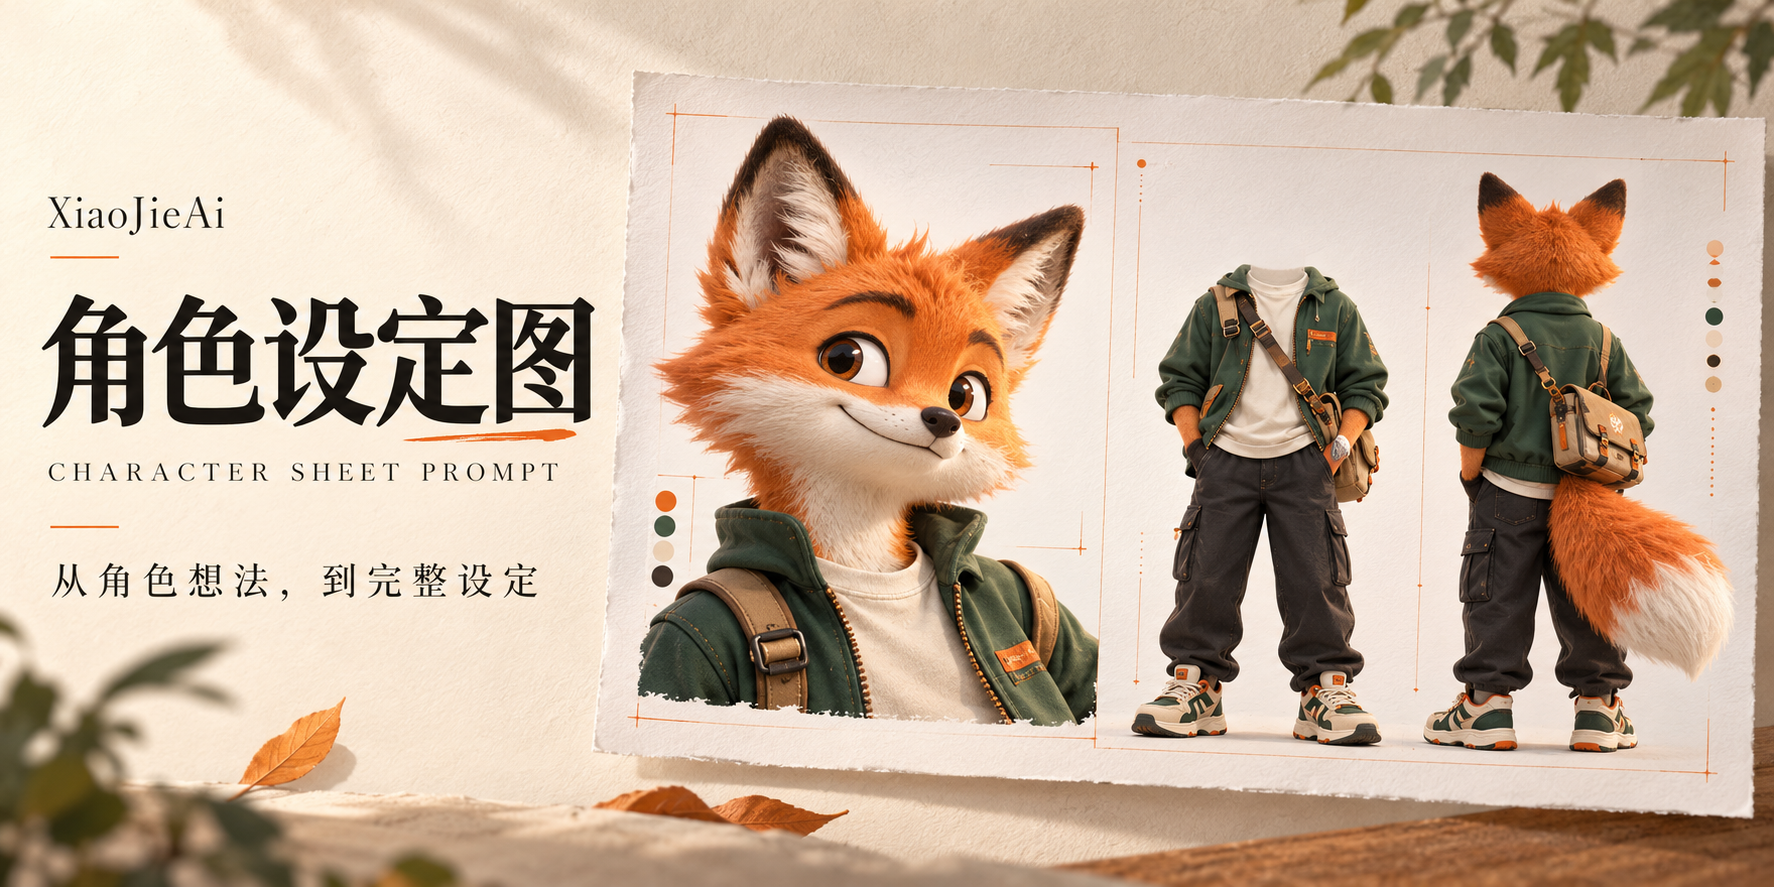
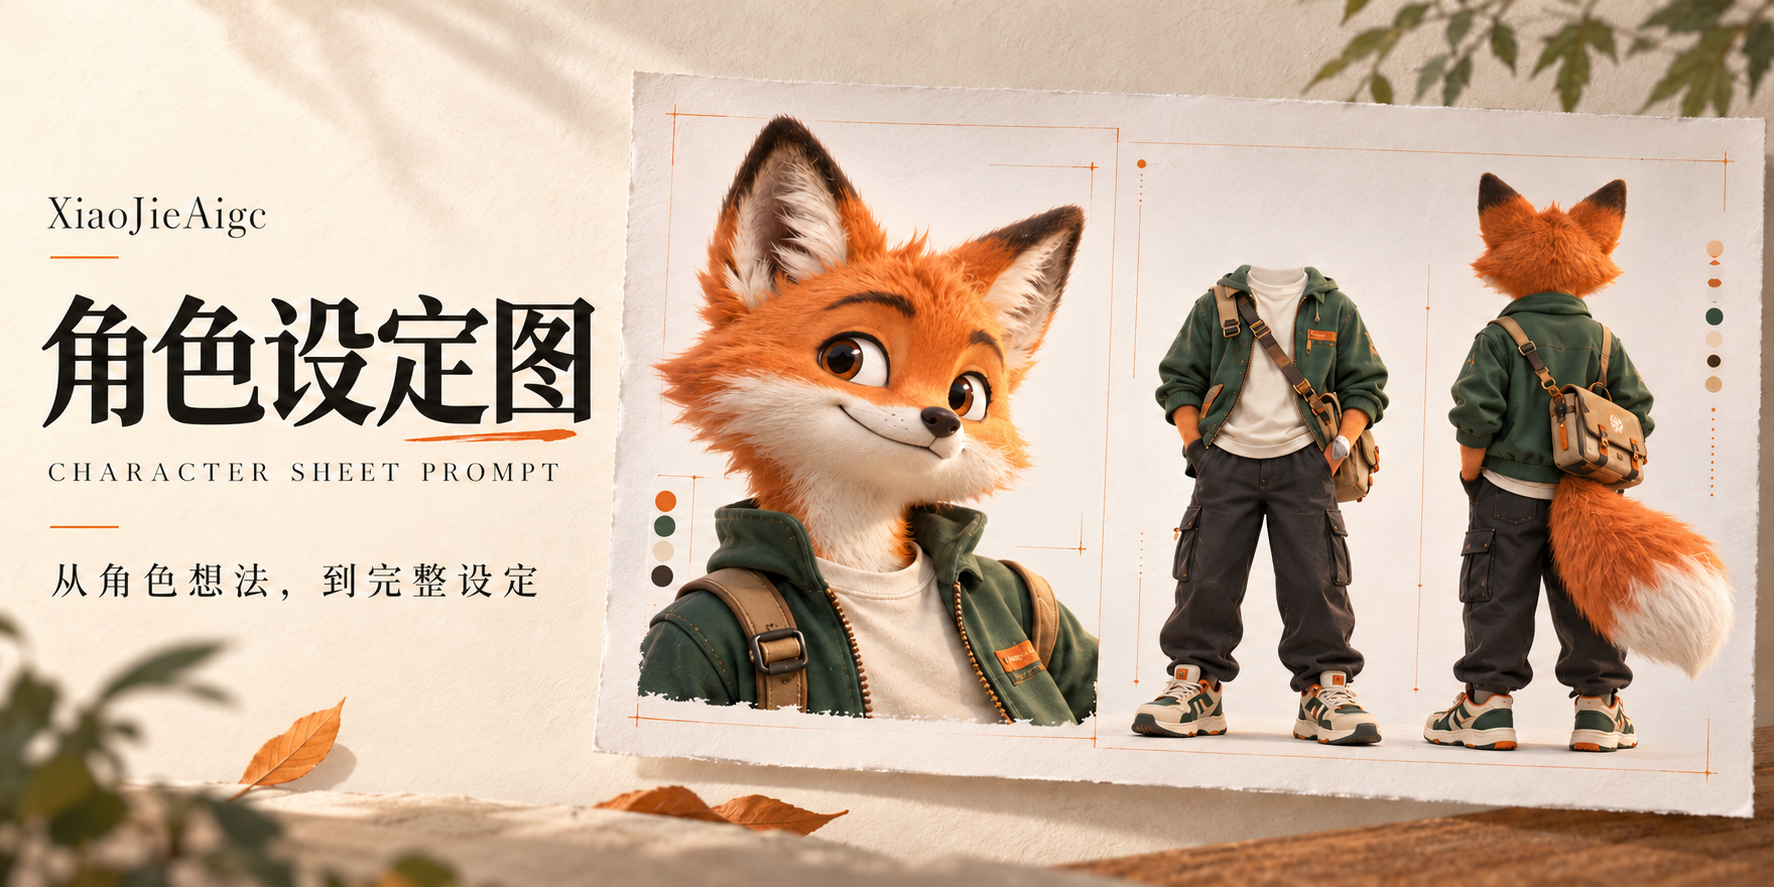
Brand skill and usage examples as XiaoJieAigc

diff --git a/README.md b/README.md
@@ -1,8 +1,8 @@
 <p align="center">
-  <img src="./cover.png" alt="XiaoJieAi 角色设定图：狐狸角色特写、无头服装正视图与完整背视图" width="100%">
+  <img src="./cover.png" alt="XiaoJieAigc 角色设定图：狐狸角色特写、无头服装正视图与完整背视图" width="100%">
 </p>
 
-<h1 align="center">角色设定图提示词 Skill</h1>
+<h1 align="center">XiaoJieAigc · 角色设定图提示词 Skill</h1>
 
 <p align="center"><strong>把一个角色想法，整理成可以直接拿去生图的完整提示词。</strong></p>
 <p align="center">人物 · 动物 · 拟人角色 · 机器人 · 幻想生物</p>
@@ -30,7 +30,7 @@
 安装或导入后，把下面这段话复制给支持 Skill 的 AI 工具：
 
 ```text
-使用 $character-sheet-prompt。
+使用 $xiaojieaigc-character-sheet-prompt。
 我想设计一个原创的狐狸快递员，三维动画风格，温暖、有亲和力。
 我没有参考图，请先帮我考虑外形、服装、鞋子与配饰。
 最终输出2K目标、16:9白底的角色设定图提示词。
@@ -40,7 +40,7 @@
 **有参考图？上传后这样说：**
 
 ```text
-使用 $character-sheet-prompt。
+使用 $xiaojieaigc-character-sheet-prompt。
 图1取脸和发型，图2取外套，图3取鞋子，不继承这些图的背景。
 裤子和配饰请你帮我搭，整体保持写实城市通勤风。
 先判断素材是否够用，再给我完整的角色生图提示词。
@@ -107,14 +107,14 @@
 **方式一：让支持仓库安装的工具帮你导入。**
 
 ```text
-请从这个GitHub仓库导入角色设定图提示词Skill：
-https://github.com/XiaoJieAi66/character-sheet-prompt
+请从这个GitHub仓库导入XiaoJieAigc角色设定图提示词Skill：
+https://github.com/XiaoJieAi66/XiaoJieAigc-character-sheet-prompt
 技能文件是根目录的SKILL.md。
 如果当前工具无法安装，请说明手动导入方法，不要声称安装成功。
 安装后，先了解我要做什么角色，以及有哪些参考素材。
 ```
 
-**方式二：手动下载。** 点击仓库上方的 **Code → Download ZIP**，解压后，将包含 `SKILL.md` 的 `character-sheet-prompt` 文件夹导入你使用的工具。具体导入入口以该工具说明为准。
+**方式二：手动下载。** 点击仓库上方的 **Code → Download ZIP**，解压后，先把技能文件夹重命名为 `xiaojieaigc-character-sheet-prompt`，再将包含 `SKILL.md` 的 `xiaojieaigc-character-sheet-prompt` 文件夹导入你使用的工具。具体导入入口以该工具说明为准。
 
 普通聊天工具没有 Skill 安装能力时，也可以把 [SKILL.md](./SKILL.md) 全文发给 AI 作为工作说明，再描述任务。
 
@@ -143,6 +143,6 @@ https://github.com/XiaoJieAi66/character-sheet-prompt
 
 ---
 
-**搭配使用：** [Seedance 2.5 视频提示词 Skill →](https://github.com/XiaoJieAi66/seedance-2-5-video-prompt)
+**搭配使用：** [Seedance 2.5 视频提示词 Skill →](https://github.com/XiaoJieAi66/XiaoJieAigc-seedance-2-5-video-prompt)
 
-<p align="center">由 <a href="https://github.com/XiaoJieAi66">XiaoJieAi</a> 整理 · 让角色想法更容易落地</p>
+<p align="center">由 <a href="https://github.com/XiaoJieAi66">XiaoJieAigc</a> 整理 · 让角色想法更容易落地</p>

diff --git a/SKILL.md b/SKILL.md
@@ -1,9 +1,9 @@
 ---
-name: character-sheet-prompt
+name: xiaojieaigc-character-sheet-prompt
 description: "通过需求引导、参考图分析和角色设计，输出可直接用于生图的角色设定图提示词。适用于人物、动物、拟人角色、机器人和幻想生物，默认2K、16:9白底，左40%头部特写，右60%无头正视图与保留后脑的背视图。"
 ---
 
-# 角色设定图提示词
+# XiaoJieAigc Character Sheet Prompt｜角色设定图提示词
 
 把用户零散的想法、已有角色图与服饰参考，整理成统一、可用于后续视频制作的角色设定图提示词。先帮助用户做设计判断，再交付完整提示词。最终产物是文字提示词，不自动提交生图任务。
 
